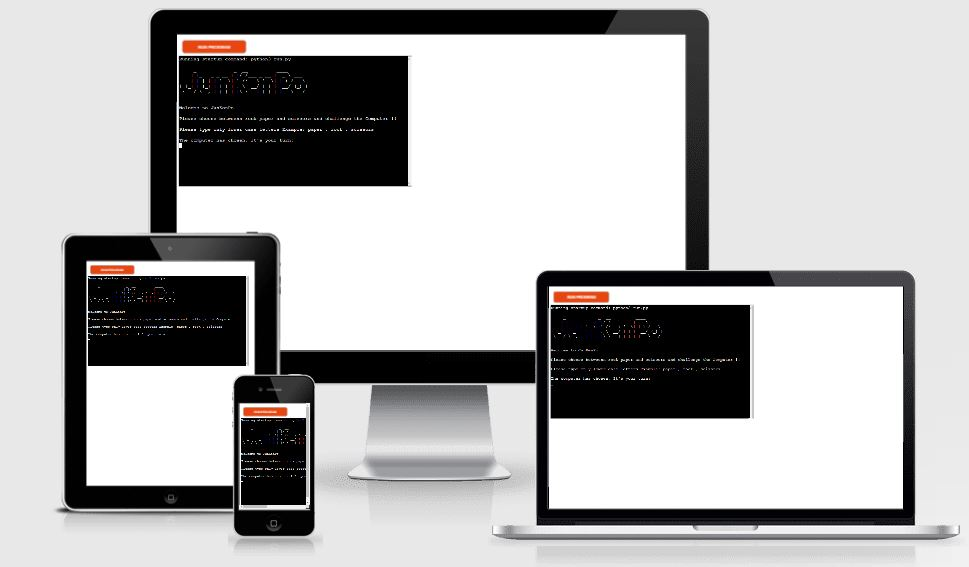
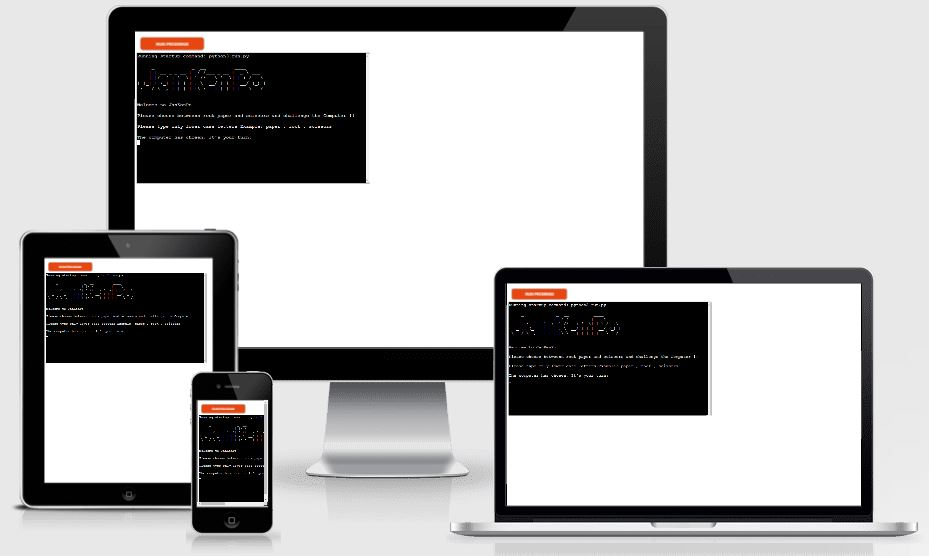
images update dot add line 9 to test heroku reflection

Changed region(s): [[0.0, 0.0, 0.9989, 0.9784]]

diff --git a/run.py b/run.py
@@ -6,7 +6,7 @@ import pyfiglet
 def welcome():
     """Print Welcome message"""
     
-    banner = pyfiglet.figlet_format("JanKenPo")
+    banner = pyfiglet.figlet_format("JanKenPo.")
     print(banner)
 
     print("Welcome to JanKenPo\n")
